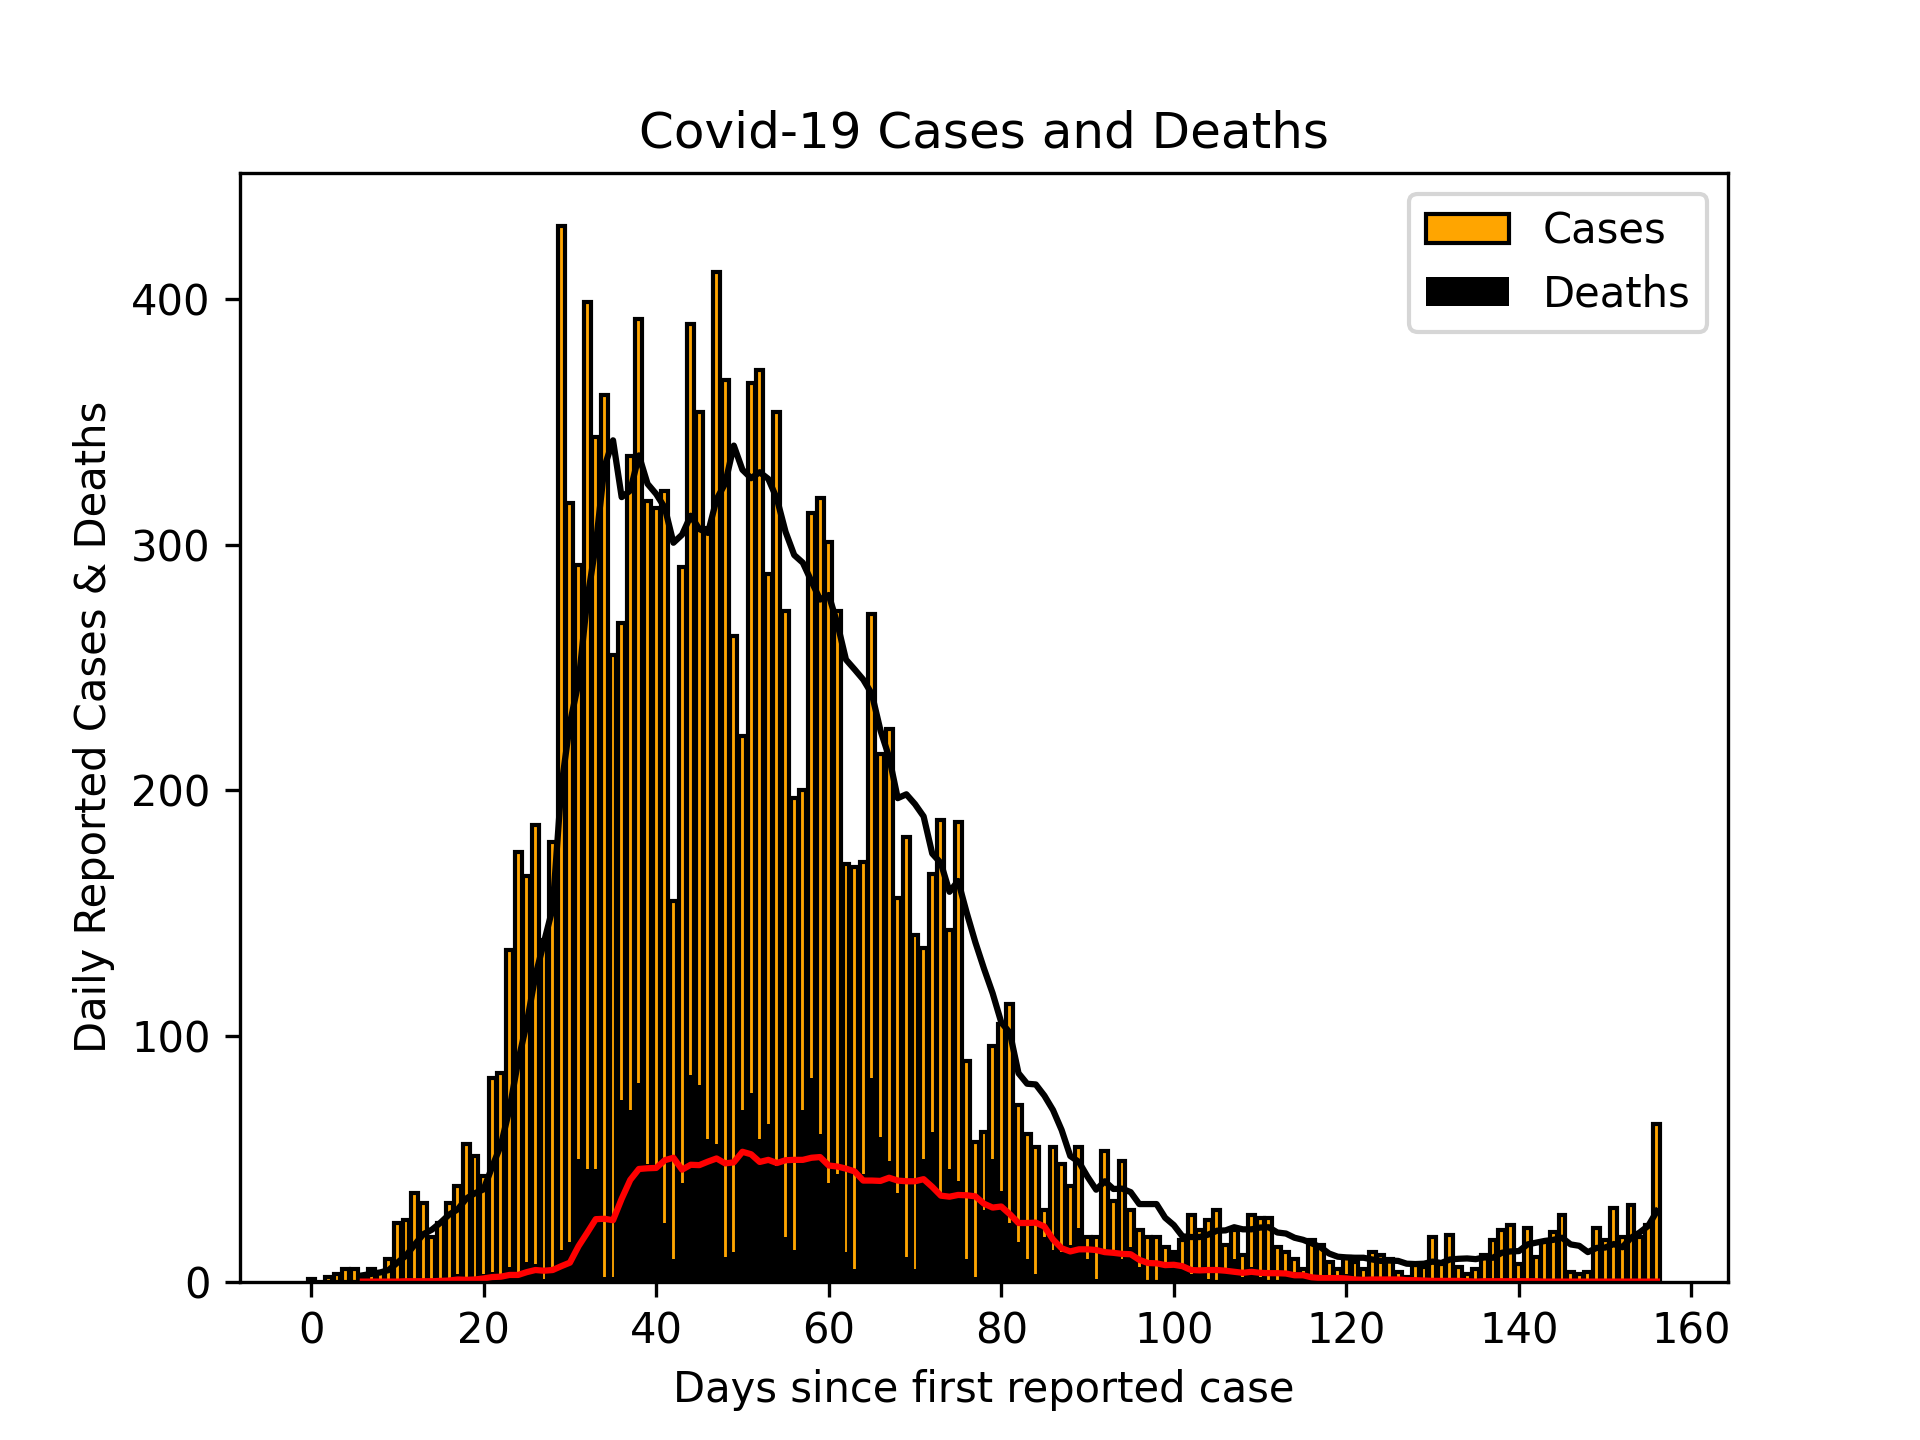
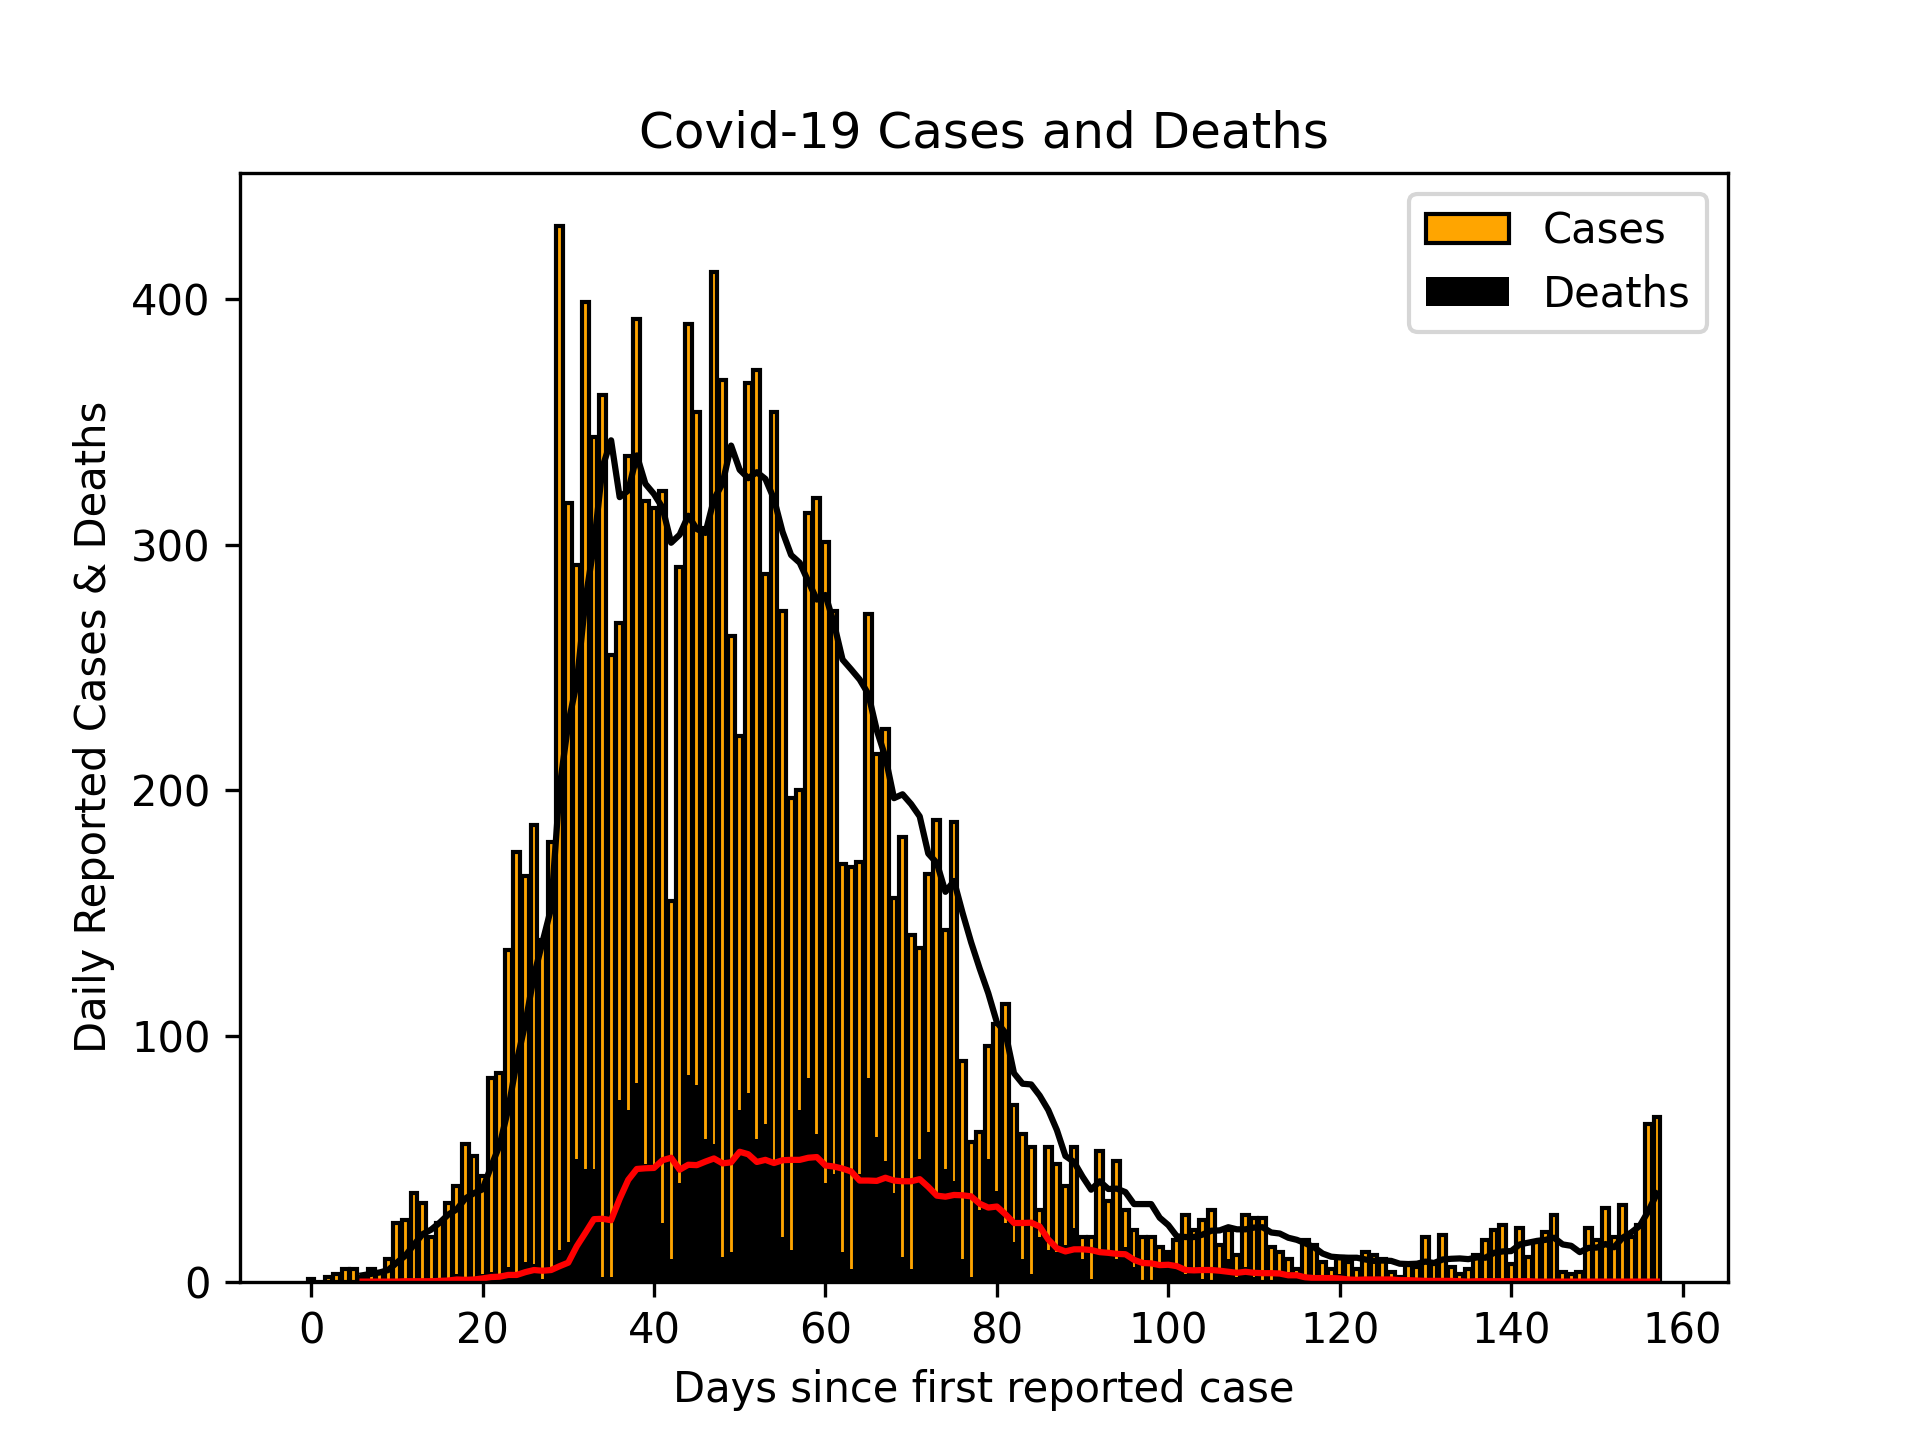
Updated Scottish cases 06/08/20

diff --git a/README.md b/README.md
@@ -1,3 +1,3 @@
-# Scottish Cases 05/08/20
+# Scottish Cases 06/08/20
 ![alt](scottish_cases.png)
 
